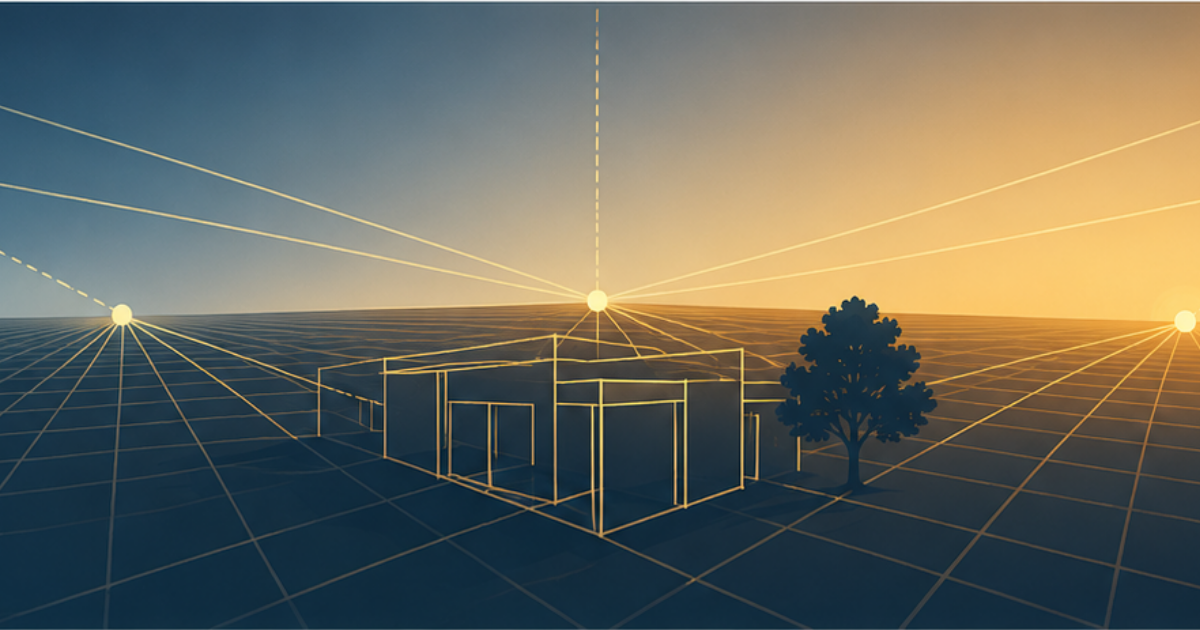
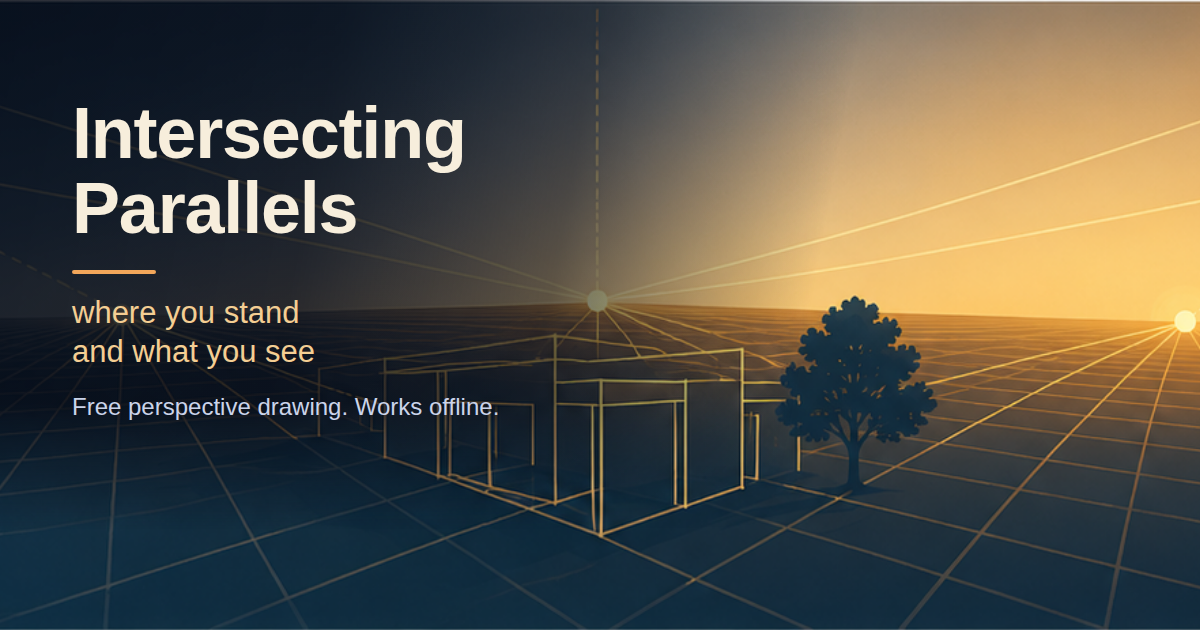
0.5.1 — the social tile says what it is, and its contrast is measured
Noah: "The social preview tile has no words." It was the bare artwork. A preview
card renders at roughly 360px beside nothing but a bare domain, so a wordless
tile tells a stranger nothing about what they are looking at.

The tile now carries the name, the tagline and one plain line ("Free perspective
drawing. Works offline."), set over the same art behind a feathered wash.

render-og.mjs generates it from art/og-base.png — the wordless cut, kept out of
public/ so the deployed site does not ship a 1.1MB image nothing references — and
it is a gate, not a helper: it renders twice, once with the text hidden, samples
the real backdrop inside each line's tight rect, takes the lightest pixel it
finds (worst case for light text) and computes the WCAG ratio against the real
text colour. Below 4.5:1 it exits non-zero and prints the offending pixel.

It failed twice on its own first runs, unplanted. Once in the instrument: it was
sampling each block's element box, which is as wide as its container, so it read
backdrop out where the sun is and no letter is ever drawn. Then for real: the
tagline, set across a wide column, ran out onto the horizon glow at 2.92:1 —
fixed by narrowing the column, because a wash deep enough to cover the horizon
also covers the building the picture is of. The wash was then lightened from
.94 to .84 so the left vanishing point still reads through it; a picture whose
subject is three vanishing points should not lose one to a gradient. Shipped at
[…]

diff --git a/public/index.html b/public/index.html
@@ -26,12 +26,12 @@
 <meta property="og:image" content="https://intersecting-parallels.pages.dev/og.png">
 <meta property="og:image:width" content="1200">
 <meta property="og:image:height" content="630">
-<meta property="og:image:alt" content="A perspective grid receding to three vanishing points on a horizon at sunset, with a wireframe building drawn on it.">
+<meta property="og:image:alt" content="Intersecting Parallels — where you stand and what you see. Free perspective drawing, works offline. The words sit over a perspective grid receding to three vanishing points on a horizon at sunset, with a wireframe building drawn on it.">
 <meta name="twitter:card" content="summary_large_image">
 <meta name="twitter:title" content="Intersecting Parallels — where you stand and what you see">
 <meta name="twitter:description" content="A free drawing tool for perspective construction. No account, works offline.">
 <meta name="twitter:image" content="https://intersecting-parallels.pages.dev/og.png">
-<meta name="twitter:image:alt" content="A perspective grid receding to three vanishing points on a horizon at sunset.">
+<meta name="twitter:image:alt" content="Intersecting Parallels — where you stand and what you see. Free perspective drawing, works offline. The words sit over a perspective grid receding to three vanishing points on a horizon at sunset.">
 </head>
 <body>
 <div class="app">

diff --git a/public/sw.js b/public/sw.js
@@ -9,7 +9,7 @@
 // deleted here — the user's drawings live in IndexedDB and an update that
 // cleared them would be destroying the work the app exists to hold.
 
-const CACHE = "intersecting-parallels-0.5.0";
+const CACHE = "intersecting-parallels-0.5.1";
 
 const SHELL = [
   "/",

diff --git a/ACCESSIBILITY.md b/ACCESSIBILITY.md
@@ -62,6 +62,30 @@ sometimes is a flaky gate. Its pair (`--muted` on `--surface`) is the one
 **Adding a new foreground/background pair? Add it here and to the registry in
 the same commit that introduces it** (§4).
 
+### Text baked into an image — the social tile
+
+`public/og.png` carries the wordmark, so it has foreground/background pairs
+that no DOM-based gate can see: the background is a photograph-like gradient
+with a sun in it, and the "background colour" of a letter is whatever pixel
+happens to be under it. Its gate is
+[`render-og.mjs`](render-og.mjs) (`npm run render:og`), which renders the tile
+twice — once with the text hidden — samples the real backdrop inside each
+line's tight rect, takes the **lightest pixel found** (worst case for light
+text) and computes the WCAG ratio against the real text colour. It exits
+non-zero below 4.5:1 and prints the offending pixel's rgb and coordinates.
+4.5 is required although every line is large text (3:1 would pass): the tile is
+displayed at roughly a third of its size in a link card.
+
+Measured 2026-07-30, at the composition that shipped:
+- wordmark `#F7EEDC` 72px — **9.97:1** (lightest backdrop pixel rgb(61,57,49))
+- tagline `#F4CE93` 31px — **8.44:1** (rgb(50,52,48) — the left vanishing
+  point's glow, showing through the wash)
+- plain line `#CBD4EA` 24px — **5.10:1** (rgb(97,82,56))
+
+Alt text carries the words, not just the picture: an image containing text is
+inaccessible if its alt describes only the scene, so `og:image:alt` and
+`twitter:image:alt` both quote the tile's wording before describing the art.
+
 ### Design-time bindings for the app itself (from NOTES.md D5/D6)
 
 The spec's interactive objects live inside a canvas — untabbable, no focus
@@ -144,3 +168,15 @@ framerate failure at 2,000 edges (37.2ms per solve+frame against a 33ms bar).
 All four were fixed and both gates re-run green. A gate that has failed on
 something real is better evidence than one that has failed on something
 planted.
+
+**2026-07-30, the social tile** — `render-og.mjs` failed on its first two runs
+without anything being planted. Run one failed all three text blocks, and the
+failure was in the INSTRUMENT: it sampled each block's element box, which is as
+wide as its container, so it was reading backdrop out where the sun is and no
+letter is ever drawn. Fixed to sample `Range.getClientRects()` — the tight rect
+per rendered line, where the ink actually is. Run two then failed for real: the
+tagline, set across a wide column, ran out to x=602 and sat on the horizon glow
+at **2.92:1**. Fixed by narrowing the column rather than by deepening the wash,
+because a wash deep enough to cover the horizon also covers the building the
+picture is of. Both facts came from the printed pixel coordinates, which is why
+the script prints them.

diff --git a/NOTES.md b/NOTES.md
@@ -183,13 +183,29 @@ white, and iOS rounds again on top of that, so a hair of white can show at the
 home-screen corners — say the word and the navy gets bled out to the edge.
 
 **Repo metadata (Doctrine §10, Noah's manual GitHub-UI step, unconfirmed):**
-- Description: `Where you stand and what you see.`
+- Description: **WITHDRAWN.** `Where you stand and what you see.` was proposed;
+  Noah, 2026-07-30: *"That description sucks."* He is right about the job it was
+  failing to do — that line is the tagline, and it already appears in `<title>`,
+  `og:title`, `twitter:title`, the About panel and the README's first line,
+  while the repo description is read in search results and in a repo list where
+  the only question is *what is this*. Candidates, functional first:
+  - `Free perspective drawing — set vanishing points, draw lines that stay locked to them. Offline, no account.`
+  - `A free drawing tool for perspective construction: vanishing points, constrained lines, boxes in one drag.`
+  - `Perspective drawing for iPad and desktop. Vanishing points that hold your lines. Free, offline, no account.`
+  Awaiting Noah's pick; nothing is set.
 - Website: `https://intersecting-parallels.pages.dev`
 - Topics (suggested): `perspective` · `drawing-tool` · `vanishing-points` ·
   `pwa` · `offline-first`
-- Social preview: **ready now** — `public/og.png` (1200×630), cut from the
-  banner Noah supplied on 2026-07-29. Upload it in the GitHub UI as the
-  repo's social preview image.
+- Social preview: **ready now** — `public/og.png` (1200×630). Upload it in the
+  GitHub UI as the repo's social preview image.
+  Noah, 2026-07-30: *"The social preview tile has no words."* It was the bare
+  artwork; a preview card is shown at ~360px beside nothing but a domain, so a
+  wordless tile tells a stranger nothing. It now carries the name, the tagline
+  and one plain line. Regenerated by `npm run render:og`
+  ([`render-og.mjs`](render-og.mjs)) from `art/og-base.png`, which is the
+  wordless cut of the banner and is kept OUT of `public/` so the deployed site
+  does not ship a 1.1MB image nothing references. That script is also the gate
+  for text-on-image contrast — see ACCESSIBILITY.md, "Text baked into an image".
 
 **Hub link:** lands only once the app is actually live (bootstrap step 5). The
 placeholder linking back to the hub is fine; the hub does not link out yet.

diff --git a/CHANGELOG.md b/CHANGELOG.md
@@ -8,6 +8,22 @@ Noah decides what counts as a version — the first slot, what the app IS.
 
 ---
 
+## 0.5.1 — ITERATION · 2026-07-30
+
+**The link preview says what it is.**
+
+- When you paste the app's link into Messages, Slack or anywhere else that
+  shows a preview card, the picture now has the name on it — "Intersecting
+  Parallels", the tagline, and one plain line saying it is free perspective
+  drawing that works offline. Before, the card was the artwork alone, which is
+  pretty and tells a stranger nothing. The same image is the repo's social
+  preview.
+- The picture's description (what a screen reader announces) now reads the
+  words on the tile out loud before describing the drawing behind them.
+- Nothing about drawing changed in this release.
+
+---
+
 ## 0.5.0 — CAPABILITY · 2026-07-29
 
 **Boxes in one drag, and line ends connect again so adjustments hold.**
